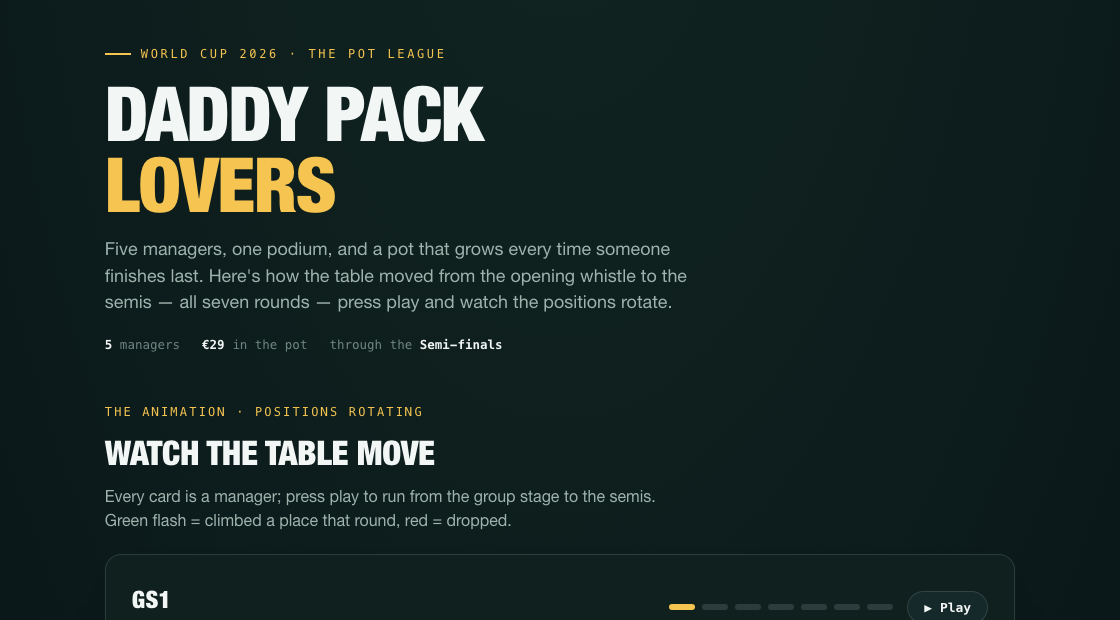
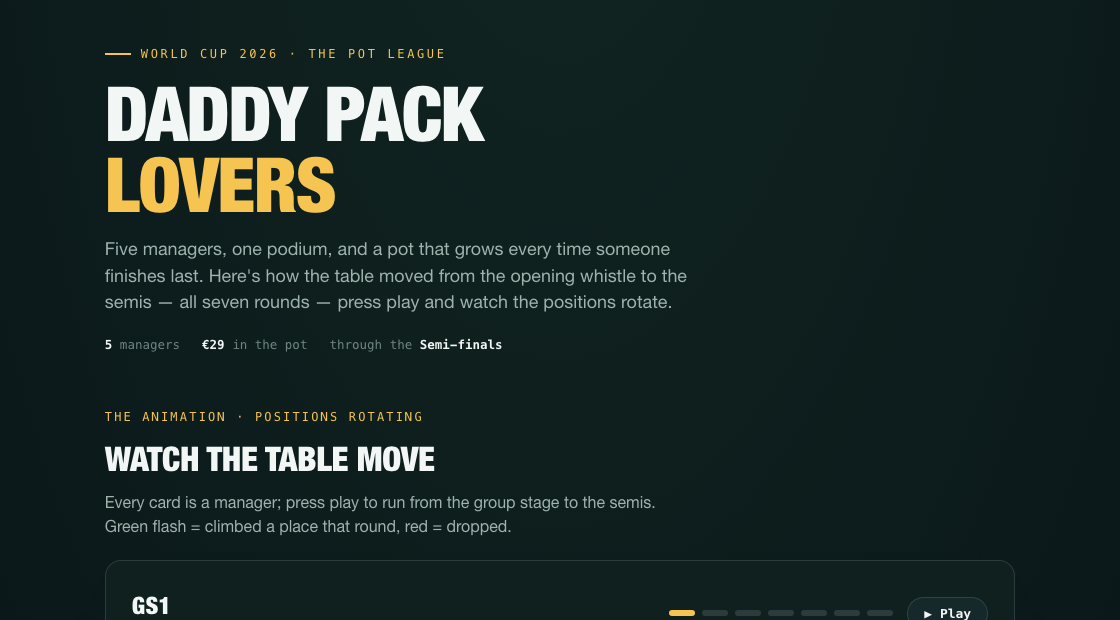
feat(recap): plant chip usage on the "full picture" bump chart
Each manager's chips (Wildcard / 12th Man / Triple Captain / Qualification /
Clean Sheet) now render as emoji beads on their bump-chart line at the exact
round they were played — badges dim/pop with their line on hover/pin, the line
tooltip lists the manager's chips, and a chip key sits under each chart. Only
highlighted managers get on-chart badges so league-two's field lines stay clean.
Previews regenerated.

diff --git a/league-one.html b/league-one.html
@@ -111,6 +111,15 @@
   .tip .sw{width:10px; height:10px; border-radius:3px; flex:0 0 auto}
   .tip .trow{display:flex; justify-content:space-between; gap:16px; color:var(--muted); font-family:var(--mono); font-size:11.5px}
   .tip .seq{margin-top:6px; font-family:var(--mono); font-size:11px; color:var(--faint)}
+  /* chip badges planted on the bump line */
+  .chip-badge{pointer-events:none; transition:opacity .18s, transform .18s}
+  .chip-badge .badge-ring{fill:var(--surface); stroke-width:2}
+  .chip-badge .badge-em{text-anchor:middle; dominant-baseline:central}
+  .series.pinned .chip-badge, g.series:not(.dim):hover .chip-badge{transform:scale(1.15); transform-box:fill-box; transform-origin:center}
+  .tip .tchips{margin-top:7px; font-size:14px; letter-spacing:.06em}
+  .chipkey{display:flex; flex-wrap:wrap; align-items:center; gap:6px 14px; margin:12px 2px 0; color:var(--muted)}
+  .chipkey span{display:inline-flex; align-items:center; gap:6px; font-family:var(--mono); font-size:11.5px}
+  .chipkey b{font-size:14px; font-weight:400}
   .legend{display:flex; flex-wrap:wrap; gap:6px 16px; margin:14px 2px 0; color:var(--muted)}
   .legend span{display:inline-flex; align-items:center; gap:7px; font-family:var(--mono); font-size:11.5px}
   .legend i{width:16px; height:3px; border-radius:2px; display:inline-block}
@@ -185,11 +194,11 @@
   <section>
     <span class="sec-kicker">The full picture</span>
     <h2>Every line, every round</h2>
-    <p class="sec-sub">The same story as one chart — hover any line to trace a manager's run through the tournament.</p>
+    <p class="sec-sub">The same story as one chart — hover any line to trace a manager's run through the tournament, and spot the badges planted where they burned each chip.</p>
     <div class="panel">
       <div class="chart-head">
         <span class="chart-title">Rank by round — lower is better</span>
-        <span class="chart-note">hover to trace · click to pin</span>
+        <span class="chart-note">hover to trace · click to pin · 🃏 marks a chip</span>
       </div>
       <div class="chartbox" id="box-l1">
         <svg class="bump" id="svg-l1" role="img" aria-label="Bump chart of League One rank by round"></svg>
@@ -339,6 +348,22 @@ function renderBump(svgId, tipId, data, maxRank, opts){
     pts.forEach(p=>g.appendChild(mk("circle",{class:"series-dot"+(d.hl?" ring":""), cx:p[0], cy:p[1], r:d.hl?4.2:2.6, style:`fill:${d.color}`})));
     if(d.hl){const ex=x(ROUNDS.length-1), ey=y(d.ranks[d.ranks.length-1]);
       const lab=mk("text",{class:"end-label", x:ex+14, y:ey}); lab.textContent=d.name; g.appendChild(lab);}
+    if(d.hl && typeof CHIPS!=="undefined"){
+      const byRound={};
+      CHIPS.filter(c=>c.who===d.name).forEach(c=>{const ci=ROUNDS.indexOf(c.round); if(ci>=0)(byRound[ci]=byRound[ci]||[]).push(c);});
+      const br=Math.max(8, Math.min(11, rowH*0.44));
+      Object.keys(byRound).forEach(ck=>{
+        const ci=+ck, list=byRound[ci], nn=list.length, cx0=x(ci), cy=y(d.ranks[ci]);
+        list.forEach((c,k)=>{
+          const off=(k-(nn-1)/2)*(br*2+3), m=CHIP_META[c.chip]||{};
+          const bg=mk("g",{class:"chip-badge"});
+          bg.appendChild(mk("circle",{class:"badge-ring", cx:cx0+off, cy:cy, r:br, style:`stroke:${d.color}`}));
+          const et=mk("text",{class:"badge-em", x:cx0+off, y:cy, "font-size":(br*1.25).toFixed(1)}); et.textContent=m.ic||"•"; bg.appendChild(et);
+          const tt=mk("title"); tt.textContent=`${m.lab||c.chip} · ${c.round}`; bg.appendChild(tt);
+          g.appendChild(bg);
+        });
+      });
+    }
     g.appendChild(mk("path",{class:"hit", d:path}));
     g.addEventListener("mouseenter",()=>show(idx));
     g.addEventListener("mousemove",(ev)=>moveTip(ev,d));
@@ -362,11 +387,13 @@ function renderBump(svgId, tipId, data, maxRank, opts){
     const first=d.ranks[0], last=d.ranks[d.ranks.length-1], sw=first-last;
     const swTxt=sw>0?`▲ +${sw}`:(sw<0?`▼ ${sw}`:"– level"), swCls=sw>0?"up":(sw<0?"down":"flat");
     const seq=d.ranks.map((r,i)=>`${ROUNDS[i]} ${r}`).join("  ·  ");
+    const mychips=(typeof CHIPS!=="undefined"?CHIPS.filter(c=>c.who===d.name):[]).sort((a,b)=>ROUNDS.indexOf(a.round)-ROUNDS.indexOf(b.round));
+    const chipsHtml=mychips.length?`<div class="tchips">`+mychips.map(c=>`${(CHIP_META[c.chip]||{}).ic||"•"} ${c.round}`).join("  ")+`</div>`:"";
     tip.innerHTML=`<div class="tname"><span class="sw" style="background:${d.color}"></span>${d.name}</div>`+
       `<div class="trow"><span>Finish</span><b class="num" style="color:var(--ink)">#${last}</b></div>`+
       `<div class="trow"><span>Points</span><b class="num" style="color:var(--ink)">${d.pts}</b></div>`+
       `<div class="trow"><span>Swing since GS1</span><b class="num ${swCls}">${swTxt}</b></div>`+
-      `<div class="seq">${seq}</div>`;
+      `<div class="seq">${seq}</div>`+chipsHtml;
     tip.classList.add("show");
     const tw=tip.offsetWidth, th=tip.offsetHeight; let px=rx+16, py=ry-th-10;
     if(px+tw>box.width) px=rx-tw-16; if(py<0) py=ry+16;
@@ -444,8 +471,17 @@ function chips(id, list){
   }).join("");
 }
 
+function chipKey(boxId){
+  const box=document.getElementById(boxId); if(!box||box.querySelector(".chipkey")) return;
+  const order=["wildcard","twelfth_man","max_captain","qualification","clean_sheet"];
+  const used=new Set((typeof CHIPS!=="undefined"?CHIPS:[]).map(c=>c.chip));
+  const el=document.createElement("div"); el.className="chipkey";
+  el.innerHTML=`<span style="color:var(--faint)">chips on the line</span>`+order.filter(t=>CHIP_META[t]&&used.has(t)).map(t=>`<span><b>${CHIP_META[t].ic}</b> ${CHIP_META[t].lab}</span>`).join("");
+  box.appendChild(el);
+}
 race("race-l1", DATA, 56);
 renderBump("svg-l1","tip-l1", DATA, 5, {rowH:46, labelSpace:150});
 legend("leg-l1", DATA); table("tab-l1", DATA); awards("awards-l1", AWARDS);
+chipKey("box-l1");
 potLedger("pot-l1","potsum-l1", POT); chips("chips-l1", CHIPS);
 </script></body></html>

diff --git a/league-two.html b/league-two.html
@@ -116,6 +116,15 @@
   .tip .sw{width:10px; height:10px; border-radius:3px; flex:0 0 auto}
   .tip .trow{display:flex; justify-content:space-between; gap:16px; color:var(--muted); font-family:var(--mono); font-size:11.5px}
   .tip .seq{margin-top:6px; font-family:var(--mono); font-size:11px; color:var(--faint)}
+  /* chip badges planted on the bump line */
+  .chip-badge{pointer-events:none; transition:opacity .18s, transform .18s}
+  .chip-badge .badge-ring{fill:var(--surface); stroke-width:2}
+  .chip-badge .badge-em{text-anchor:middle; dominant-baseline:central}
+  .series.pinned .chip-badge, g.series:not(.dim):hover .chip-badge{transform:scale(1.15); transform-box:fill-box; transform-origin:center}
+  .tip .tchips{margin-top:7px; font-size:14px; letter-spacing:.06em}
+  .chipkey{display:flex; flex-wrap:wrap; align-items:center; gap:6px 14px; margin:12px 2px 0; color:var(--muted)}
+  .chipkey span{display:inline-flex; align-items:center; gap:6px; font-family:var(--mono); font-size:11.5px}
+  .chipkey b{font-size:14px; font-weight:400}
   .legend{display:flex; flex-wrap:wrap; gap:6px 16px; margin:14px 2px 0; color:var(--muted)}
   .legend span{display:inline-flex; align-items:center; gap:7px; font-family:var(--mono); font-size:11.5px}
   .legend i{width:16px; height:3px; border-radius:2px; display:inline-block}
@@ -197,11 +206,11 @@
   <section>
     <span class="sec-kicker">The full picture</span>
     <h2>Five stories, one chart</h2>
-    <p class="sec-sub">Five stories — the champion, the early leader, the biggest climber, the steepest fall, and the great escape — picked out in colour, with every one of the eighteen named at their finish. Hover any line to light it up.</p>
+    <p class="sec-sub">Five stories — the champion, the early leader, the biggest climber, the steepest fall, and the great escape — picked out in colour, with every one of the eighteen named at their finish. Hover any line to light it up — the badges mark where each of the five spent a chip.</p>
     <div class="panel">
       <div class="chart-head">
         <span class="chart-title">Rank by round — lower is better</span>
-        <span class="chart-note">hover to trace · click to pin</span>
+        <span class="chart-note">hover to trace · click to pin · 🃏 marks a chip</span>
       </div>
       <div class="chartbox" id="box-l2">
         <svg class="bump" id="svg-l2" role="img" aria-label="Bump chart of League Two rank by round"></svg>
@@ -369,6 +378,22 @@ function renderBump(svgId, tipId, data, maxRank, opts){
     pts.forEach(p=>g.appendChild(mk("circle",{class:"series-dot"+(d.hl?" ring":""), cx:p[0], cy:p[1], r:d.hl?4.2:2.6, style:`fill:${d.color}`})));
     {const ex=x(ROUNDS.length-1), ey=y(d.ranks[d.ranks.length-1]);
       const lab=mk("text",{class:"end-label"+(d.hl?"":" field"), x:ex+(d.hl?14:12), y:ey}); lab.textContent=d.name; g.appendChild(lab);}
+    if(d.hl && typeof CHIPS!=="undefined"){
+      const byRound={};
+      CHIPS.filter(c=>c.who===d.name).forEach(c=>{const ci=ROUNDS.indexOf(c.round); if(ci>=0)(byRound[ci]=byRound[ci]||[]).push(c);});
+      const br=Math.max(8, Math.min(11, rowH*0.44));
+      Object.keys(byRound).forEach(ck=>{
+        const ci=+ck, list=byRound[ci], nn=list.length, cx0=x(ci), cy=y(d.ranks[ci]);
+        list.forEach((c,k)=>{
+          const off=(k-(nn-1)/2)*(br*2+3), m=CHIP_META[c.chip]||{};
+          const bg=mk("g",{class:"chip-badge"});
+          bg.appendChild(mk("circle",{class:"badge-ring", cx:cx0+off, cy:cy, r:br, style:`stroke:${d.color}`}));
+          const et=mk("text",{class:"badge-em", x:cx0+off, y:cy, "font-size":(br*1.25).toFixed(1)}); et.textContent=m.ic||"•"; bg.appendChild(et);
+          const tt=mk("title"); tt.textContent=`${m.lab||c.chip} · ${c.round}`; bg.appendChild(tt);
+          g.appendChild(bg);
+        });
+      });
+    }
     g.appendChild(mk("path",{class:"hit", d:path}));
     g.addEventListener("mouseenter",()=>show(idx));
     g.addEventListener("mousemove",(ev)=>moveTip(ev,d));
@@ -392,11 +417,13 @@ function renderBump(svgId, tipId, data, maxRank, opts){
     const first=d.ranks[0], last=d.ranks[d.ranks.length-1], sw=first-last;
     const swTxt=sw>0?`▲ +${sw}`:(sw<0?`▼ ${sw}`:"– level"), swCls=sw>0?"up":(sw<0?"down":"flat");
     const seq=d.ranks.map((r,i)=>`${ROUNDS[i]} ${r}`).join("  ·  ");
+    const mychips=(typeof CHIPS!=="undefined"?CHIPS.filter(c=>c.who===d.name):[]).sort((a,b)=>ROUNDS.indexOf(a.round)-ROUNDS.indexOf(b.round));
+    const chipsHtml=mychips.length?`<div class="tchips">`+mychips.map(c=>`${(CHIP_META[c.chip]||{}).ic||"•"} ${c.round}`).join("  ")+`</div>`:"";
     tip.innerHTML=`<div class="tname"><span class="sw" style="background:${d.color}"></span>${d.name}</div>`+
       `<div class="trow"><span>Finish</span><b class="num" style="color:var(--ink)">#${last}</b></div>`+
       `<div class="trow"><span>Points</span><b class="num" style="color:var(--ink)">${d.pts}</b></div>`+
       `<div class="trow"><span>Swing since GS1</span><b class="num ${swCls}">${swTxt}</b></div>`+
-      `<div class="seq">${seq}</div>`;
+      `<div class="seq">${seq}</div>`+chipsHtml;
     tip.classList.add("show");
     const tw=tip.offsetWidth, th=tip.offsetHeight; let px=rx+16, py=ry-th-10;
     if(px+tw>box.width) px=rx-tw-16; if(py<0) py=ry+16;
@@ -527,8 +554,17 @@ function chips(id, list){
   }).join("");
 }
 
+function chipKey(boxId){
+  const box=document.getElementById(boxId); if(!box||box.querySelector(".chipkey")) return;
+  const order=["wildcard","twelfth_man","max_captain","qualification","clean_sheet"];
+  const used=new Set((typeof CHIPS!=="undefined"?CHIPS:[]).map(c=>c.chip));
+  const el=document.createElement("div"); el.className="chipkey";
+  el.innerHTML=`<span style="color:var(--faint)">chips on the line</span>`+order.filter(t=>CHIP_META[t]&&used.has(t)).map(t=>`<span><b>${CHIP_META[t].ic}</b> ${CHIP_META[t].lab}</span>`).join("");
+  box.appendChild(el);
+}
 race("race-l2", DATA, 38);
 renderBump("svg-l2","tip-l2", DATA, 18, {rowH:20, labelSpace:172});
 legend("leg-l2", DATA); awards("awards-l2", AWARDS); roster("roster-l2", DATA);
 chips("chips-l2", CHIPS);
+chipKey("box-l2");
 </script></body></html>